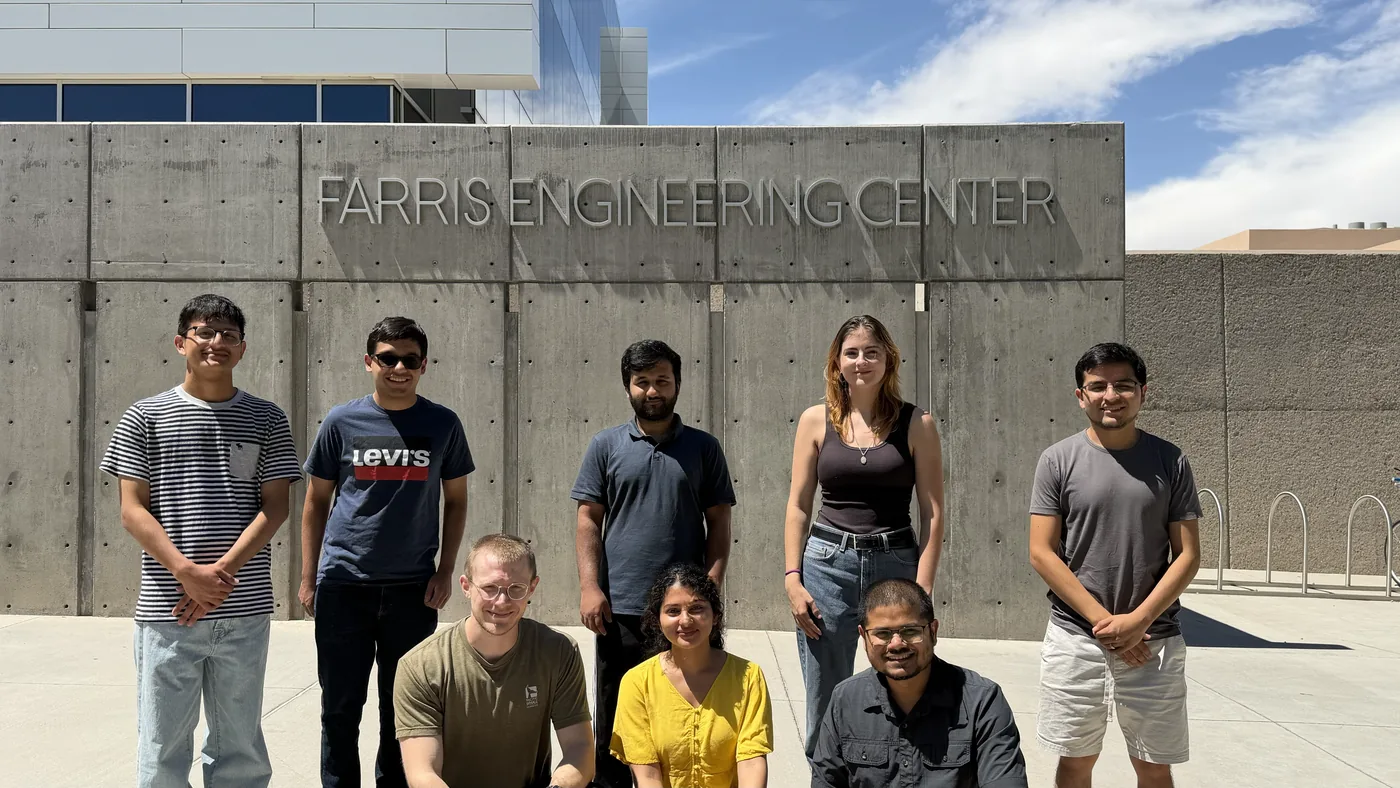
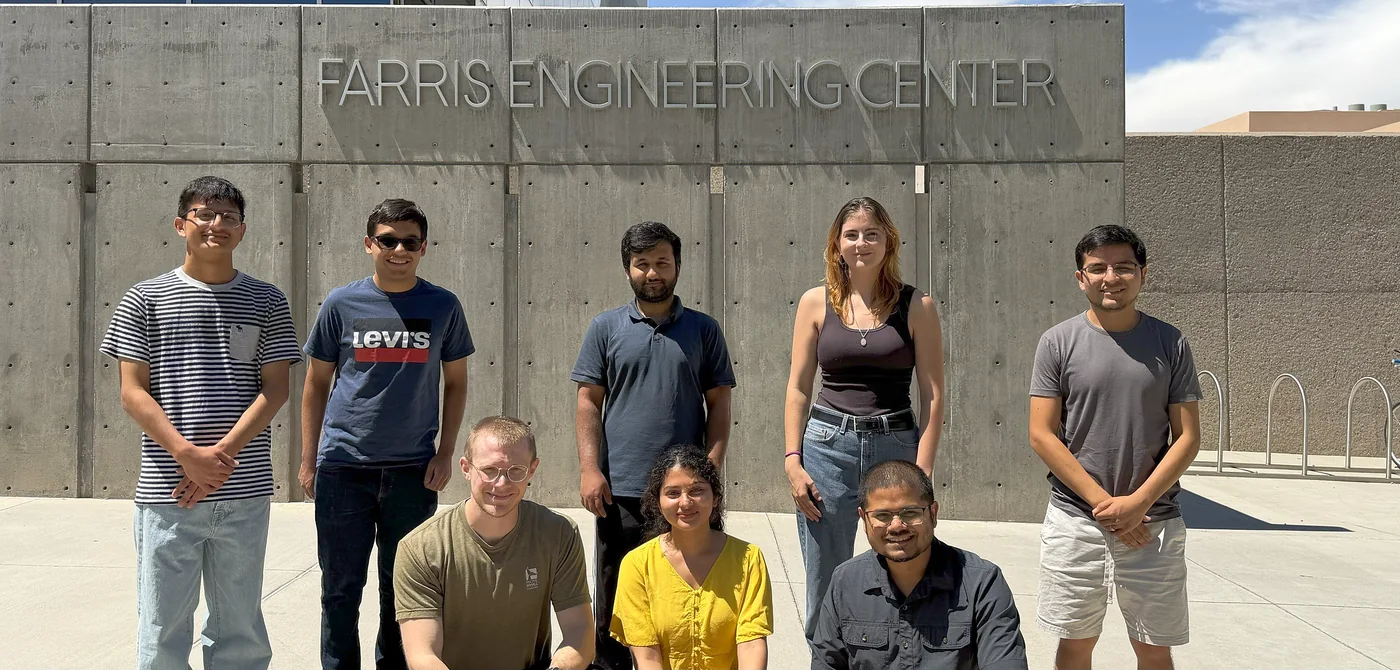
fixed width of the webpage

diff --git a/css/main.scss b/css/main.scss
@@ -130,12 +130,15 @@ figcaption {
   color: var(--text-muted);
 }
 
+/* Navbar and page content share proportional ~7% gutters and span the
+   viewport, matching censoredplanet.org. Previously capped at 1080px, which
+   left 269px of dead space each side at 1600px. */
 .container-fluid {
   margin-right: auto;
   margin-left: auto;
-  max-width: 1080px;
-  padding-left: 24px;
-  padding-right: 24px;
+  max-width: none;
+  padding-left: 7%;
+  padding-right: 7%;
 }
 
 /* ============================================================
@@ -283,6 +286,45 @@ $nav-h: 80px;
    .sponsors-label all sit inside wrappers, and an id selector here would
    otherwise outrank their own font sizes. */
 #homeid > p { font-size: 1rem; line-height: 1.75; }
+
+/* Hero: intro paragraph beside the cover photo, like censoredplanet.org.
+   The remaining paragraphs run full width underneath. */
+.home-hero {
+  display: flex;
+  align-items: center;
+  gap: 26px;
+  margin-bottom: 1.1rem;
+}
+.home-hero-text {
+  flex: 1 1 0;
+  /* Floor the text column so narrower desktops shrink the image instead of
+     crushing the paragraph to a few words per line. */
+  min-width: 300px;
+}
+.home-hero-text .home-body:last-child { margin-bottom: 0; }
+.home-hero .home-cover {
+  flex: 1 1 64%;
+  max-width: 600px;
+  min-width: 0;
+  margin: 0;
+}
+
+/* Narrow the news rail so the main column (and the hero image) get more room.
+   Overrides Bootstrap's col-sm-8 / col-sm-4 (66.67% / 33.33%). */
+@media (min-width: 768px) {
+  #homeid { width: 72%; }
+  #newsid { width: 28%; }
+}
+/* Fixed rail once there is room for it, so the news column stays a constant
+   410px instead of growing with the screen. Below 992px it falls back to the
+   percentage split above, and below 768px the columns stack. */
+@media (min-width: 992px) {
+  #homeid { width: calc(100% - 410px); }
+  #newsid { width: 410px; }
+}
+@media (max-width: 767px) {
+  .home-hero { flex-direction: column; align-items: stretch; gap: 16px; }
+}
 
 /* Homepage cover photo */
 .home-cover {
@@ -1033,6 +1075,7 @@ hr.section-divider {
   .member-card { flex-direction: column; align-items: center; text-align: center; }
   .member-card-body ul { text-align: left; }
   #newsid { padding-left: 0; }
+  /* Percentage gutters would waste space on a phone. */
   .container-fluid { padding-left: 14px; padding-right: 14px; }
 }
 
@@ -1565,7 +1608,9 @@ a.pub-highlight-badge:hover {
   margin-top: 0.5rem !important;
 }
 .vacancy-sidebar {
-  width: 240px;
+  /* 240px dated from the old 1080px-capped container; on the full-width
+     layout it left the role cards at ~81% of the row. */
+  width: 380px;
   flex-shrink: 0;
   display: flex;
   flex-direction: column;

diff --git a/_pages/home.md b/_pages/home.md
@@ -16,28 +16,32 @@ permalink: /
     </div>
     <button class="tagline-arrow" id="tagllineNext" aria-label="Next"><svg viewBox="0 0 24 24" fill="none" stroke="currentColor" stroke-width="2.5" stroke-linecap="round" stroke-linejoin="round"><polyline points="9 18 15 12 9 6"/></svg></button>
   </div>
-  <div class="home-cover">
-    <picture>
-      <source type="image/webp"
-              sizes="(max-width: 767px) 100vw, 720px"
-              srcset="{{ site.url }}{{ site.baseurl }}/images/homepage/lab-group-700.webp 700w,
-                      {{ site.url }}{{ site.baseurl }}/images/homepage/lab-group-1050.webp 1050w,
-                      {{ site.url }}{{ site.baseurl }}/images/homepage/lab-group-1400.webp 1400w,
-                      {{ site.url }}{{ site.baseurl }}/images/homepage/lab-group-2100.webp 2100w,
-                      {{ site.url }}{{ site.baseurl }}/images/homepage/lab-group-2800.webp 2800w">
-      <img src="{{ site.url }}{{ site.baseurl }}/images/homepage/lab-group-1400.jpg"
-           sizes="(max-width: 767px) 100vw, 720px"
-           srcset="{{ site.url }}{{ site.baseurl }}/images/homepage/lab-group-700.jpg 700w,
-                   {{ site.url }}{{ site.baseurl }}/images/homepage/lab-group-1050.jpg 1050w,
-                   {{ site.url }}{{ site.baseurl }}/images/homepage/lab-group-1400.jpg 1400w,
-                   {{ site.url }}{{ site.baseurl }}/images/homepage/lab-group-2100.jpg 2100w,
-                   {{ site.url }}{{ site.baseurl }}/images/homepage/lab-group-2800.jpg 2800w"
-           width="1400" height="788"
-           fetchpriority="high" decoding="async"
-           alt="Members of the Beyond Defense Lab outside the Farris Engineering Center at the University of New Mexico">
-    </picture>
+  <div class="home-hero">
+    <div class="home-hero-text">
+  <p class="home-body">We are a cybersecurity research group in the <a href="https://www.cs.unm.edu/">Department of Computer Science</a> at <a href="https://www.unm.edu/">The University of New Mexico</a>, led by Afsah Anwar. We uncover and defend against emerging threats to VPNs, satellites, mobile apps, and web applications through malware analysis, vulnerability research, and threat intelligence.</p>
+    </div>
+    <div class="home-cover">
+      <picture>
+        <source type="image/webp"
+                sizes="(max-width: 767px) 100vw, 600px"
+                srcset="{{ site.url }}{{ site.baseurl }}/images/homepage/lab-group-700.webp 700w,
+                        {{ site.url }}{{ site.baseurl }}/images/homepage/lab-group-1050.webp 1050w,
+                        {{ site.url }}{{ site.baseurl }}/images/homepage/lab-group-1400.webp 1400w,
+                        {{ site.url }}{{ site.baseurl }}/images/homepage/lab-group-2100.webp 2100w,
+                        {{ site.url }}{{ site.baseurl }}/images/homepage/lab-group-2800.webp 2800w">
+        <img src="{{ site.url }}{{ site.baseurl }}/images/homepage/lab-group-1400.jpg"
+             sizes="(max-width: 767px) 100vw, 600px"
+             srcset="{{ site.url }}{{ site.baseurl }}/images/homepage/lab-group-700.jpg 700w,
+                     {{ site.url }}{{ site.baseurl }}/images/homepage/lab-group-1050.jpg 1050w,
+                     {{ site.url }}{{ site.baseurl }}/images/homepage/lab-group-1400.jpg 1400w,
+                     {{ site.url }}{{ site.baseurl }}/images/homepage/lab-group-2100.jpg 2100w,
+                     {{ site.url }}{{ site.baseurl }}/images/homepage/lab-group-2800.jpg 2800w"
+             width="1400" height="670"
+             fetchpriority="high" decoding="async"
+             alt="Members of the Beyond Defense Lab outside the Farris Engineering Center at the University of New Mexico">
+      </picture>
+    </div>
   </div>
-  <p class="home-body">We are a cybersecurity research group in the <a href="https://www.cs.unm.edu/">Department of Computer Science</a> at <a href="https://www.unm.edu/">The University of New Mexico</a>, led by Afsah Anwar. We uncover and defend against emerging threats to VPNs, satellites, mobile apps, and web applications through malware analysis, vulnerability research, and threat intelligence.</p> 
 
   <p class="home-body">Our research has delivered measurable real-world impact. Our study of SMS-delivered URLs uncovered personal-data exposure across 177 online services, leading 7 providers to fix the vulnerabilities and being covered by <a href="https://arstechnica.com/security/2026/01/millions-of-people-imperiled-through-sign-in-links-sent-by-sms">Ars Technica</a>, <a href="https://www.helpnetsecurity.com/2026/01/23/sms-private-urls-data-exposure-study/">Help Net Security</a>, and <a href="https://www.techradar.com/pro/millions-of-smartphone-users-could-be-at-risk-from-the-sms-sign-in-url-issue-heres-what-you-need-to-look-out-for">TechRadar Pro</a>. Our MVPNalyzer framework analyzed free Android VPN apps, exposing widespread data leaks and security failures, with coverage from <a href="https://thehackernews.com/2026/07/study-of-281-free-android-vpn-apps.html">The Hacker News</a> and <a href="https://news.engin.umich.edu/2026/07/mobile-vpn-security-is-not-as-strong-as-advertised/">Michigan Engineering News</a>. We have also discovered a <a href="https://sparta.aerospace.org/technique/DE-0012/">novel spacecrafts vulnerability</a>.</p>
 
